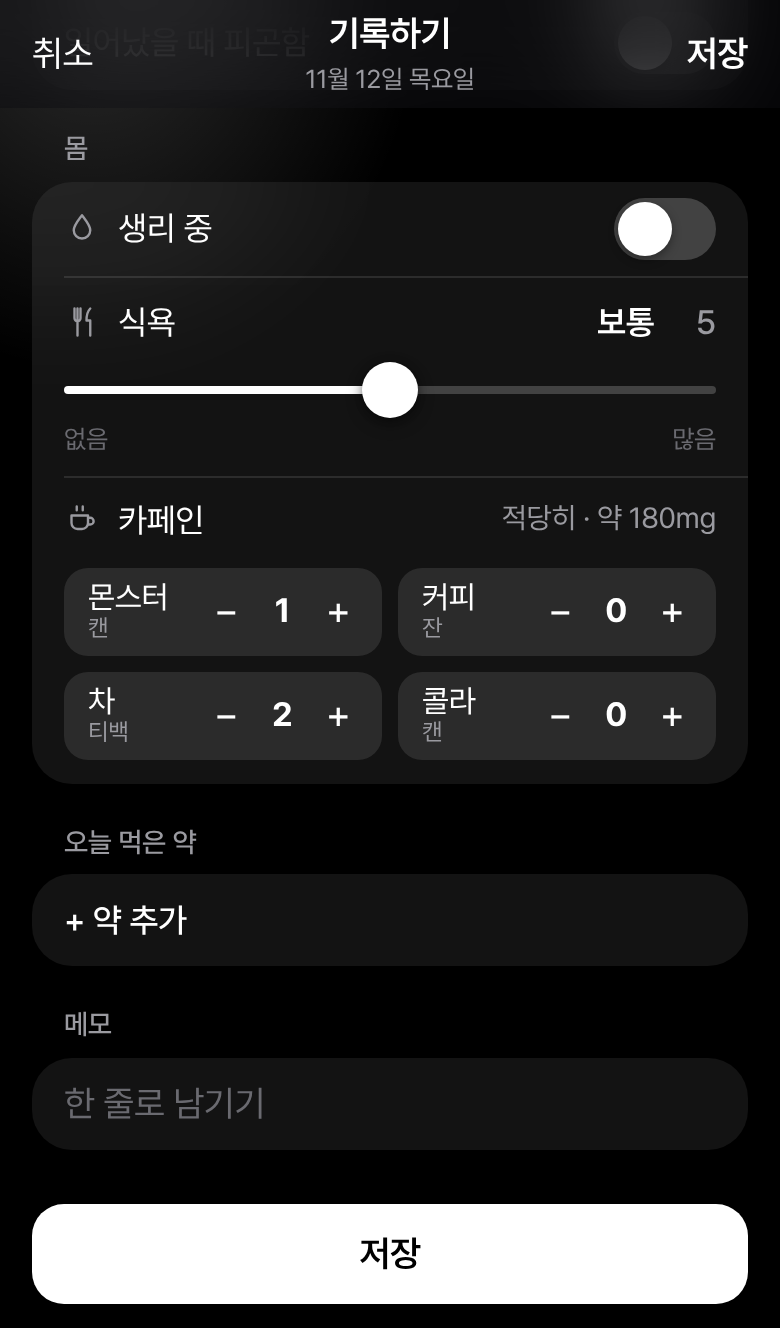
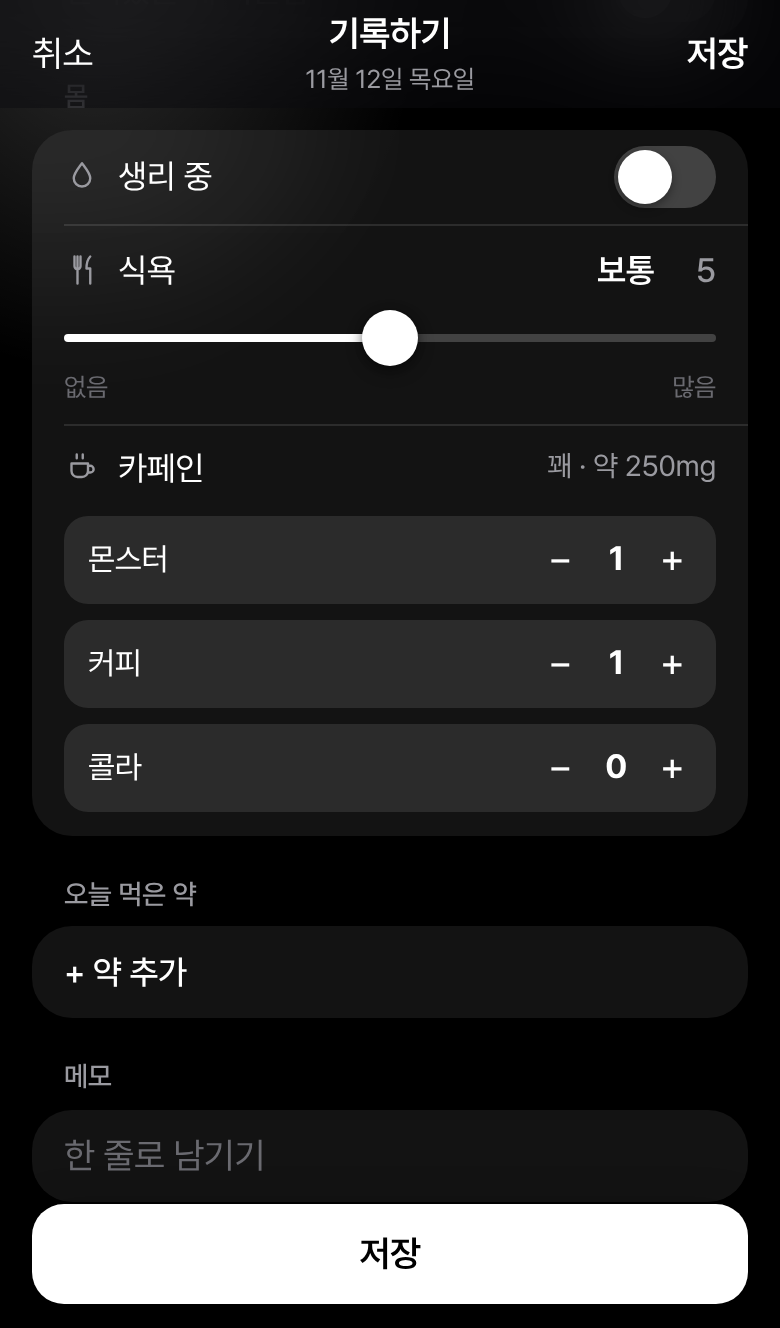
Tide: drop tea and unit labels from the caffeine counters
Claude-Session: https://claude.ai/code/session_01Du4KAy7crrN67i73oW7iBF

diff --git a/mood/app.js b/mood/app.js
@@ -49,7 +49,7 @@
     '복사한 글을 Claude나 ChatGPT 같은 AI 앱에 붙여 넣으면 기록 전체를 읽고 패턴을 정리해 줘요. 붙여 넣는 순간 그 기록은 해당 AI 서비스로 전송돼요.': 'Paste the copied text into an AI app such as Claude or ChatGPT and it can read the whole log and summarise patterns. Once pasted, that log is sent to that AI service.',
     '위 문장들은 내 기록을 계산한 관찰이에요. 원인이나 진단을 뜻하지 않아요.': 'These sentences are observations calculated from your log. They do not indicate a cause or a diagnosis.',
     '복사했어요. AI 앱에 붙여 넣으세요': 'Copied. Paste it into an AI app',
-    '몬스터': 'Monster', '커피': 'Coffee', '차': 'Tea', '콜라': 'Cola', '캔': 'can', '잔': 'cup', '티백': 'bag', '약 {0}mg': '~{0} mg',
+    '몬스터': 'Monster', '커피': 'Coffee', '콜라': 'Cola', '약 {0}mg': '~{0} mg',
     '취소': 'Cancel', '완료': 'Done', '설정': 'Settings', '증상': 'Symptoms', '몸': 'Body',
     '수면 시간': 'Time asleep', '일어났을 때 피곤함': 'Tired on waking', '일어났을 때': 'On waking', '피곤': 'Tired',
     '높음': 'High',
@@ -216,8 +216,7 @@
   // 잠에 영향을 주는 약 (안정제·수면제). 전날 이 약을 체크했으면 그날 밤 잠은 '약 먹고 잔 밤'으로 본다.
   const SEDATIVES = ['알프람', '자낙스', '아티반', '리보트릴', '바리움', '스틸녹스', '서카딘'];
   // 카페인은 마신 것을 개수로 적는다. mg는 대략적인 값 (제품·크기에 따라 다름).
-  // 차는 물 양이 아니라 티백(찻잎) 개수로 센다. 카페인은 우린 찻잎 양에서 나온다.
-  const DRINKS = [['monster', T('몬스터'), 100, T('캔')], ['coffee', T('커피'), 150, T('잔')], ['tea', T('차'), 40, T('티백')], ['cola', T('콜라'), 35, T('캔')]];
+  const DRINKS = [['monster', T('몬스터'), 100], ['coffee', T('커피'), 150], ['cola', T('콜라'), 35]];
   const cafMg = (dr) => DRINKS.reduce((sum, [k, , mg]) => sum + ((dr && dr[k]) || 0) * mg, 0);
   const cafScore = (dr) => Math.min(10, Math.round(cafMg(dr) / 40));   // 400mg 이상이면 10
   const drinkText = (dr) => DRINKS.filter(([k]) => dr && dr[k]).map(([k, name]) => `${name} ${dr[k]}`).join(' · ');
@@ -773,7 +772,7 @@ ${lines.join('\n') || '(기록 없음)'}`;
   const SLIDERS = ['mood', 'energy', 'conf', 'appetite'];
   const cafHead = (dr) => (cafMg(dr) ? `${nameOf('caffeine', cafScore(dr))} · ${F('약 {0}mg', cafMg(dr))}` : nameOf('caffeine', 0));
   const drinksHtml = (d) => `<div class="li col"><div class="slh"><span class="lk">${IC.coffee}${T('카페인')}</span><span class="nm" id="v-caf">${cafHead(d.drinks)}</span></div>
-    <div class="steps">${DRINKS.map(([k, name, , unit]) => `<div class="step"><span>${name}<small>${unit}</small></span>
+    <div class="steps">${DRINKS.map(([k, name]) => `<div class="step"><span>${name}</span>
       <button type="button" data-drink="${k}" data-d="-1" aria-label="${name} −">−</button><b id="c-${k}">${d.drinks[k] || 0}</b>
       <button type="button" data-drink="${k}" data-d="1" aria-label="${name} +">+</button></div>`).join('')}</div></div>`;
   const slider = (id, icon, label, v, lo, hi) => `<div class="li sl">

diff --git a/mood/app.css b/mood/app.css
@@ -253,11 +253,9 @@ ol.steps li { margin: 3px 0; }
 .sug small { color: var(--muted); margin-left: 5px; font-size: .85em; }
 
 /* 카페인 음료 개수 */
-.steps { display: grid; grid-template-columns: 1fr 1fr; gap: 8px; margin-top: 4px; }
+.steps { display: grid; grid-template-columns: 1fr; gap: 8px; margin-top: 4px; }
 .step { display: flex; align-items: center; background: var(--card2); border-radius: 12px; padding: 4px 4px 4px 12px; }
 .step span { flex: 1; font-size: calc(14px * var(--fs, 1.12)); }
 .step button { width: 36px; height: 36px; border-radius: 9px; font-size: 20px; text-align: center; color: var(--text); }
 .step button:active { background: var(--fill); }
 .step b { min-width: 20px; text-align: center; font-variant-numeric: tabular-nums; font-size: calc(15px * var(--fs, 1.12)); }
-.step span { line-height: 1.15; }
-.step span small { display: block; color: var(--muted); font-size: .76em; }

diff --git a/mood/sw.js b/mood/sw.js
@@ -1,6 +1,6 @@
 // 오프라인에서도 열리도록 앱 파일을 저장해 둔다.
 // 인터넷이 될 때는 항상 최신 파일을 먼저 받아오고, 안 될 때만 저장본을 쓴다.
-const CACHE = 'tide-v20';
+const CACHE = 'tide-v21';
 const FILES = ['./', 'index.html', 'app.css', 'app.js', 'manifest.webmanifest',
   'icons/icon-180.png', 'icons/icon-192.png', 'icons/icon-512.png'];
 
